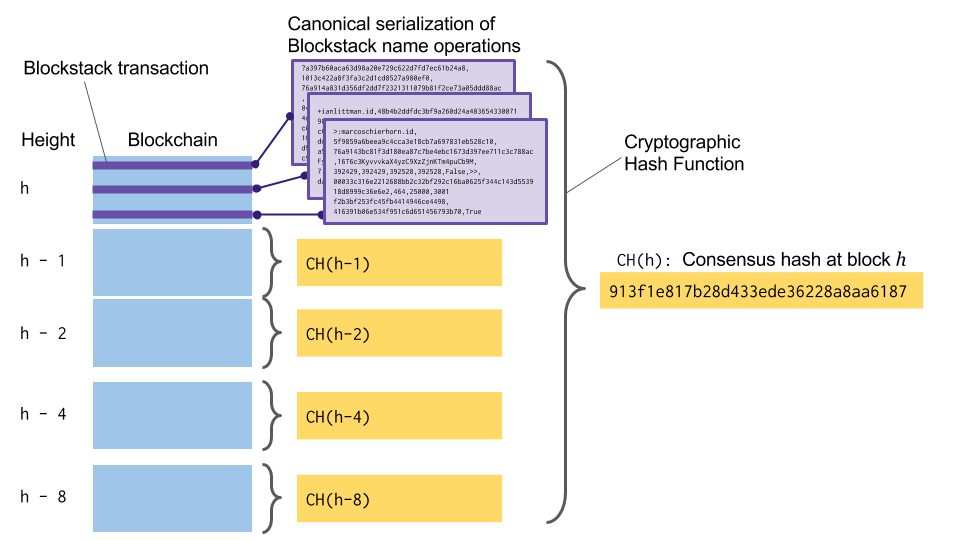
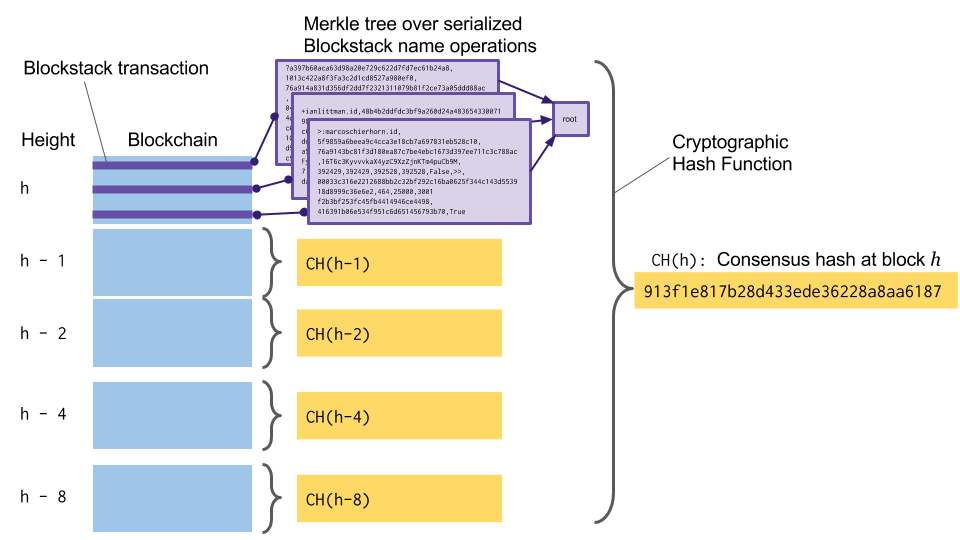
final touch-ups to lightweight clients

diff --git a/app/docs/light-clients.md b/app/docs/light-clients.md
@@ -13,16 +13,16 @@ To overcome these challenges, Blockstack DNS uses a secure, light-weight consens
 
 The consensus hash gives Blockstack DNS a couple useful properties:
 * If two Blockstack DNS peers agree on the same consensus hash, then they have processed the exact same sequence of name operations (with extremely high probability).
-* If a client has a consensus hash at block height `h`, then it can verify the authenticity of any operations in previous blocks with `O(log h)` queries and `O(K + log h)` bytes transferred (where `K` is the maximum size of a block).
+* If a client has a consensus hash at block height `h`, then it can verify the authenticity of any operations in previous blocks with `O(log h)` queries and `O(K + log^2 h)` bytes transferred (where `K` is the maximum size of a block).
 
 ### Consensus Hash Construction
 
 Recall that a Blockstack DNS node broadcasts name operations by writing them as transactions on an underlying blockchain.  Peer nodes discover them by reading the blockchain and replaying the operations sequentially.  In doing so, the blockchain serves as an append-only log of name operations, which when replayed in sequence allow a Blockstack DNS peer to determine the current and prior states of each name and namespace.
 
 <img src="/images/article-diagrams/consensus-hash-construction.png" class="img-fluid" alt="Overview of how Blockstack DNS constructs a consensus hash.">
-_Figure 1: Overview of how Blockstack DNS constructs a consensus hash._
+_Figure 1: Overview of how Blockstack DNS constructs a consensus hash.  The records are organized into a Merkle tree whose root is fed into the consensus hash, along with a geometric series of prior consensus hashes._
 
-When broadcasting new operations, a Blockstack DNS node maintains a consensus hash for the current blockchain height, and embeds it within the operation's data.  The consensus hash is a cryptographic hash calculated over the last block's sequence of name operations, as well as a logarithmic number of prior consensus hashes (Figure 1).  Specifically, at block height `h`, the consensus hash is calculated by first hashing the canonical forms of each name operation in transaction order, and then hashing the prior consensus hashes for all blocks at heights `{h | h - 2^i && i > 0 && h - 2^i >= h0}` (where `h0` is the block height of the first-ever name operation).  As a result, two Blockstack DNS peers at block `h` will calculate the same consensus hash if they observed the same sequence of name operations.
+When broadcasting new operations, a Blockstack DNS node maintains a consensus hash for the current blockchain height, and embeds it within the operation's data.  The consensus hash is a cryptographic hash calculated over the last block's sequence of name operations, as well as a logarithmic number of prior consensus hashes (Figure 1).  Specifically, at block height `h`, the consensus hash is calculated by first hashing the canonical forms of each name operation in transaction order, organizing them into a Merkle tree, and then hashing the Merkle tree root and the prior consensus hashes for all blocks at heights `{h | h - 2^i && i > 0 && h - 2^i >= h0}` (where `h0` is the block height of the first-ever name operation).  As a result, two Blockstack DNS peers at block `h` will calculate the same consensus hash if they observed the same sequence of name operations.
 
 The usefulness of fast bootstrapping and lightweight name verification depend on the client first obtaining a reasonably fresh consensus hash.  To facilitate this, Blockstack DNS peers reject operations that do not have fresh consensus hashes (e.g. the operation must be found within 40 blocks of the height that its embedded consensus hash corresponds to).  This gives clients a straightfoward way to discover a recent consensus hash:  get it from a transaction in the underlying blockchain known to have been accepted by Blockstack DNS.  The Blockstack DNS client software makes it easy for users and application developers to discover these consensus hashes, such as (but not limited to) using a transaction the client itself recently issued, using a valid transaction a trusted friend issued, or fetching and validating a (possibly old) copy of an untrusted Blockstack DNS peer's database and fetching only the new transactions that have not yet been processed.
 
@@ -101,7 +101,7 @@ One nice thing about this feature is that once you know *any* consensus hash, yo
 
 ### Lightweight Name Lookups
 
-The set of back-links from a given block `h` to all blocks `h - 2^i` constitute a _Merkle skip-list_ (Figure 2).  Given the consensus hash at height `h`, a client can query an untrusted Blockstack DNS server to determine the name operations at any block with a lower height.  The query requires a logarithmic number of requests relative to the number of blocks, and only requires a logarithmic number of bytes transferred relative to the blockchain's size (plus the records for the previous block).  The process of verifying the authenticity of a prior name operation with a later known-good consensus hash is called _Simplified Name Verification_ (SNV).
+The set of back-links from a given block `h` to all blocks `h - 2^i` constitute a _Merkle skip-list_ (Figure 2).  Given the consensus hash at height `h`, a client can query an untrusted Blockstack DNS server to determine the name operations at any block with a lower height.  The query requires a logarithmic number of requests relative to the number of blocks, and only requires a squared logarithmic number of bytes transferred relative to the blockchain's size (plus all the records for the block with the record to verify).  The process of verifying the authenticity of a prior name operation with a later known-good consensus hash is called _Simplified Name Verification_ (SNV).
 
 <img src="/images/article-diagrams/snv-overview.png" class="img-fluid" alt="Overview of how lightweight name lookups work.">
 _Figure 3: Overview of Simplified Name Verification (SNV) protocol.  Each row represents the blockchain, in decreasing block height order from left to right (h > h0).  The user wishes to verify the authenticity of a name operation in the block marked with a `?`.  In each step, the user trusts the consensus hash for the white outlined block, and uses it to verify the authenticity of that block's name operations, as well as the set of prior consensus hashes (belonging to yellow blocks indicated by the arrows).  By iteratively fetching name operations and consensus hashes for prior blocks, the user will eventually prove the authenticity of all name operations in the `?` block._
